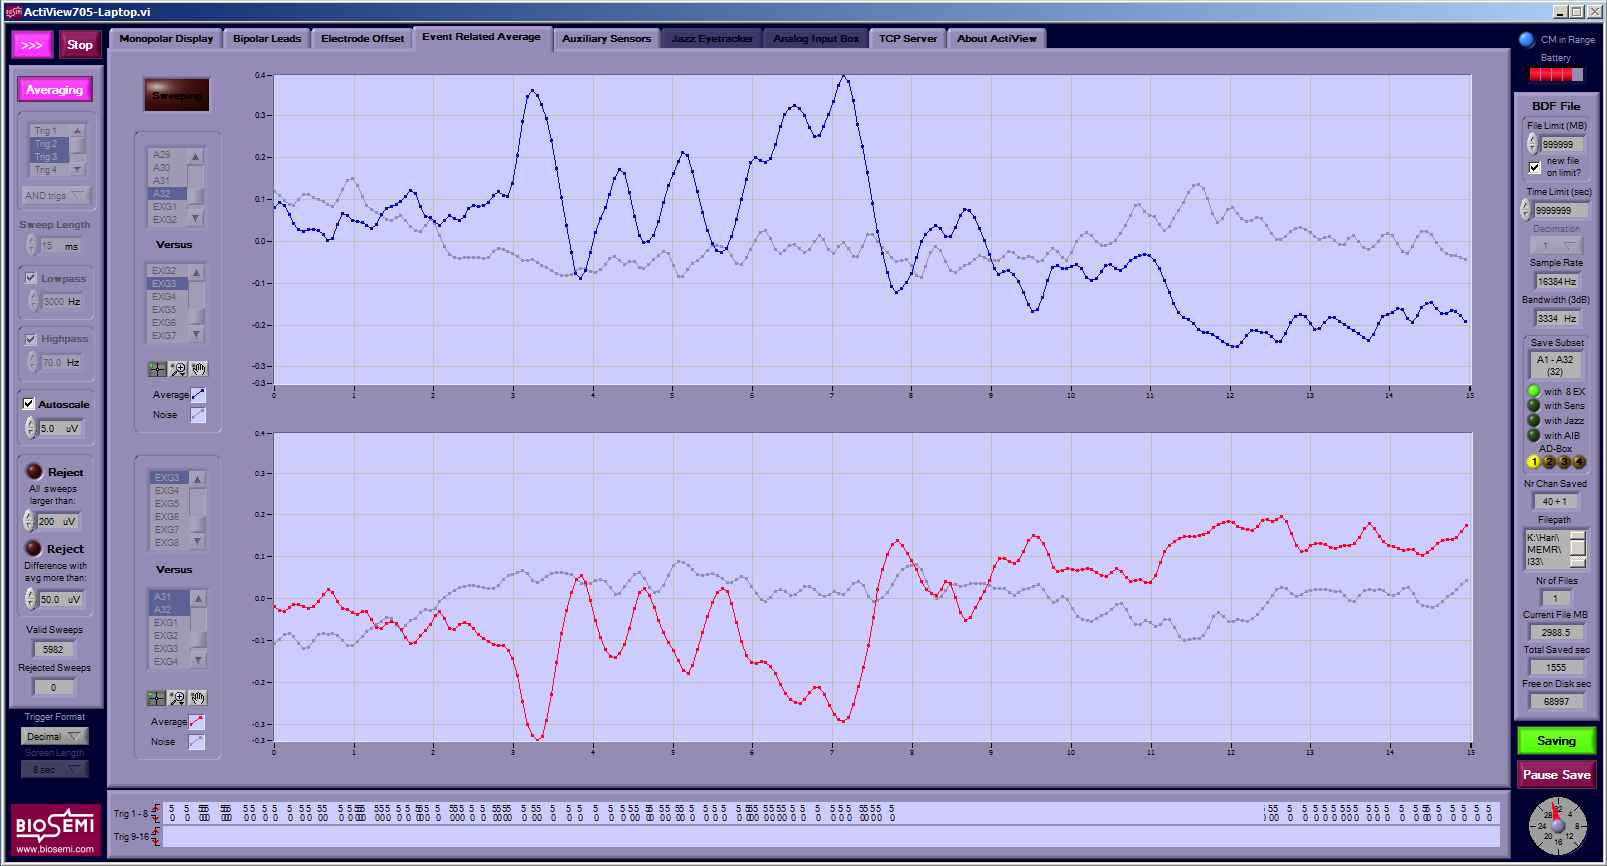
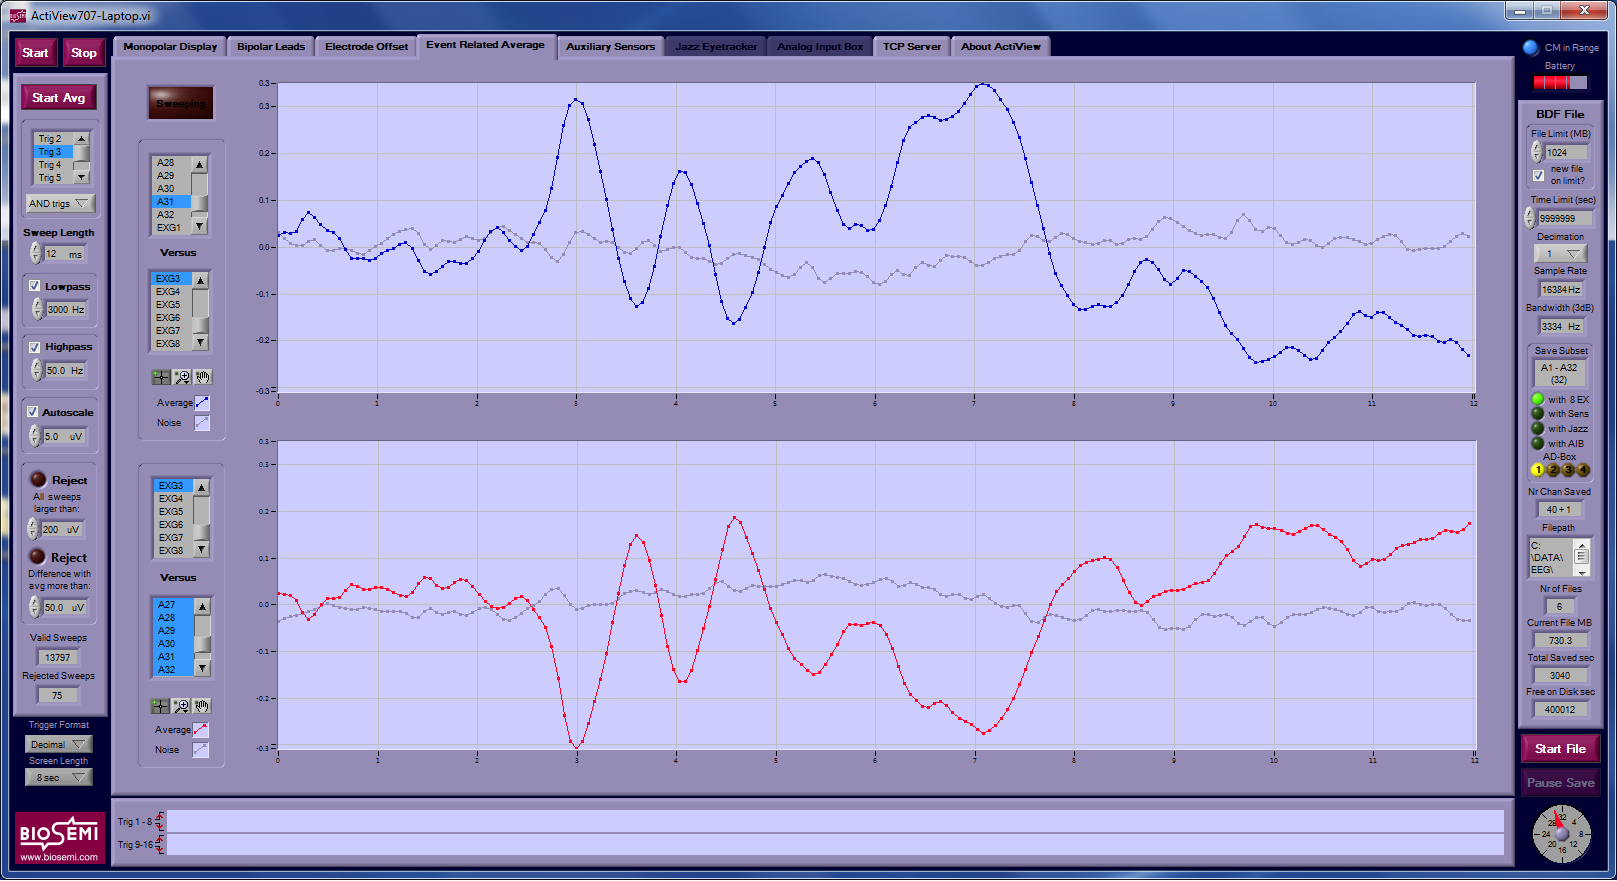
Updating with better screenshots amd descriptions

diff --git a/EEG.md b/EEG.md
@@ -4,6 +4,9 @@ These would apply for ABRs, EFRs, and cortical EEG measurements.
 
 ## Before the subject arrives
 
+1.  Follow all COVID-specific protocols
+    (Qualtrics survey for subject within 48 hours before, temperature check in the lobby,
+    ensuring mask usage, etc.)
 1.  Instruct the subject to avoid using any hair products on the day
     they are coming in for the scan.
 2.  Test the stimulus delivery (make sure things look and sound like
@@ -11,15 +14,18 @@ These would apply for ABRs, EFRs, and cortical EEG measurements.
 3.  Make sure that printed current consent forms are available and that
     they match what you need for the study. The current protcol number
     is 1609018209.
-4.  Check lab secure database to see if subject has already been
-    consented, and see what experiments have already been done.
-5.  Prepare a set of electrodes and syringes
-6.  Go back to the records to see if the subject has already been
-    consented. Follow the protocol for accessing the database.
+4.  Check lab secure database (SubjectContact.xlsx) to see if subject has already been
+    consented. If not, issue a new subject ID and add their contact info.
 7.  Make sure the sampling rate dial is set to the desired rate (e.g.,
     \"4\" for 2048 Hz, \"5\" for 4096 Hz, \"7\" for 16384 Hz).
-8.  Make sure that the desired configuration file exists on the EEG
-    acquisition computer.
+    We typically use 16384 Hz for ABR or subcortical responses if we are
+    interested in transient features, 4096 Hz for most else.
+    For purely cortical responses, 2048 is reasonable.
+8.  Disinfect work surface with wipes and prepare set of electrodes and
+    syringes by laying them out on a clean surface, possibly with paper towels.
+    Do **not** fill syringe with gel yet, wait until subject is actually here to do so.
+
+![Work surface for setup](surface.jpg)
 
 ## Once the subject is here
 
@@ -54,28 +60,50 @@ These would apply for ABRs, EFRs, and cortical EEG measurements.
     wipe even regular EEG sites when they are not covered by hair (e.g.,
     on the forehead).
 4.  If the reference electrode is under the cap (e.g., mastoid bone),
-    apply them first (see 7). Then tighten the chinstrap. On the other
+    apply them first. Then tighten the chinstrap. On the other
     hand, if the references are in front of the cap (e.g., earlobes),
-    save the references for the last.
-5.  Once the cap is on an secured and you have applied any electrodes
+    save the references for the last (i.e., just before CMS-DRL).
+5.  Once the cap is on and secured and you have applied any electrodes
     that go under the cap, run head digitization, if applicable,
-    following the protocol. We will likely do this for all cortical EEG
-    experiments and not for ABRs and EFRs.
-6.  Inject electrolyte gel into the slots on the cap. It is only
-    necessary to gently part the hair so that the gel makes contact with
-    the scalp. It is not necessary to abrade the scalp.
+    following the protocol. We will do this for cortical EEG
+    experiments where we are interested in source localization, 
+    and typically not for ABRs and EFRs.
+5.  For most of the prep, and especially for affixing electrodes to the cap,
+    it is best to stand behind and slightly to the left of the subject.
+    That way, most cables will tend to come out to the subject's left.
+    That makes it easier to end up with a bundle to attach to the amp which
+    will be on the subjects left inside the booth.
+
+![Best to prep from behind and slight to the left](prep.jpg)
+
+6.  Inject electrolyte gel into the slots on the cap:
+    -   Use the syringe tip to gently part the hair so that the
+        gel makes contact with the scalp.
+        It is not necessary to abrade the scalp.
+    -   **Start** pistoning out the gel with the tip touching the scalp
+        but draw the syringe out as you squirt gel. That way the syringe
+        doesn't pull our the gel with it.
+    -   It is good practice to ask the subject if they felt cold gel,
+        especially in areas where there is more hair.
+    -   There are two opposing considerations to keep in mind when applying
+        gel: Too little gel may not allow for forming stable contact,
+        but too much gel runs the risk of bridging two different channels!
+    -   The DRL site is especially important to get a really nice contact.
 7.  Once all the electrodes are \"gel\"-ed, affix the electrodes in
     order (ascending or descending). It is useful to follow the bunching
-    order that the electrode set inherently has. This is not necessary
-    for the ActiveEZ caps if we ever use them.
+    order that the electrode set inherently has.
 8.  Affix external reference channels if any: Use the double sided round
     sticker. Make sure to expose the metal contact when sticking the
     sticker on. Apply the electrolyte gel on the contact avoiding the
-    glue area. Affix the channel on the subject. If it seems like the
-    electrode might be unstable, use micropore tape as needed. Make sure
+    glue area. Affix the channel on the subject.
+    Use micropore tape as needed to stabilize the fixture. Make sure
     to note which electrode was attached to which site (e.g., left vs.
     right) so that they can be inserted into the correct slot on the
-    amplifier.
+    amplifier. Our convention is to use:
+    -   EXG1 for left earlobe [or mastoid, but earlobe preferred]
+    -   EXG2 for right earlobe [or mastoid, but earlobe preferred]
+    -   EXG3 for left tiptrode (if using)
+    -   EXG4 for right tiptrode (if using)
 9.  Attach CMS+DRL. Gather all the other electrodes in a bunch and coil
     the CMS+DRL wires around the bunch at least 5 times, finally
     securing them with the velcro band. The coiling makes external
@@ -94,10 +122,11 @@ These would apply for ABRs, EFRs, and cortical EEG measurements.
 
 ### Data acquisition software setup
 
-1.  Start the ActiView7xx program and choose a configuration file when
-    prompted.
+1.  Start the ActiView program and choose a configuration file if
+    prompted. We have a default config file that should be loaded
+    automatically. So you shouldn't typically be prompted.
 
-![image](actiview.jpg)
+![image](ScreenShotEEG.png)
 
 2.  Hit the start button on the top left. You should see a stream of
     data coming in.
@@ -153,7 +182,7 @@ These would apply for ABRs, EFRs, and cortical EEG measurements.
     right. If data is being saved, you should see a green \"Saving\"
     button!
 
-![image](savingGreen.png)
+![Look for green saving sign when running](savingGreen.png)
 
 13. Once the setup is ready and the subject is ready, start the stimulus
     program. Make sure that the data is being saved and that triggers
@@ -174,7 +203,9 @@ These would apply for ABRs, EFRs, and cortical EEG measurements.
     the average of A1 to A32 (although only A31 and A32 are in view in
     the screenshot), and the tiptrode (EXG3) is the other active lead.
 
-![image](onlineAverage.png)
+![Online averaging for an ABR response](onlineAverage.png)
+![Online averaging for a cortical N100 response](onlineAverage2.png)
+
 
 15. To choose which events to average online, the Trg bits (in the top
     left) have to be set. The VI is programmed to consider events on a
